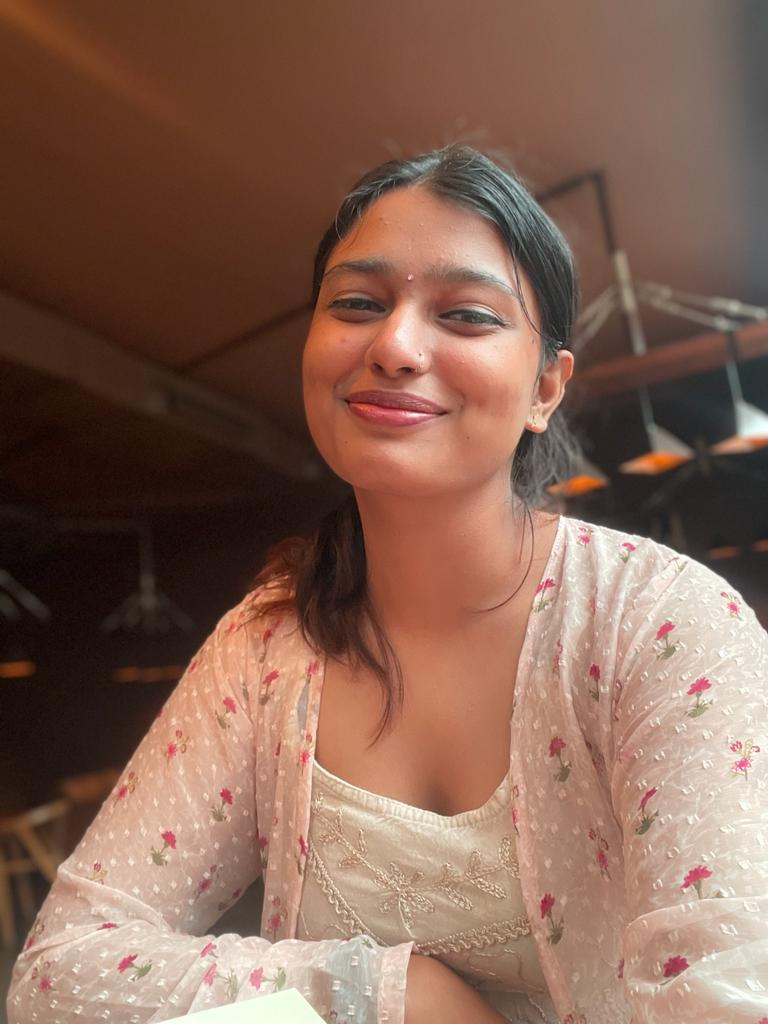
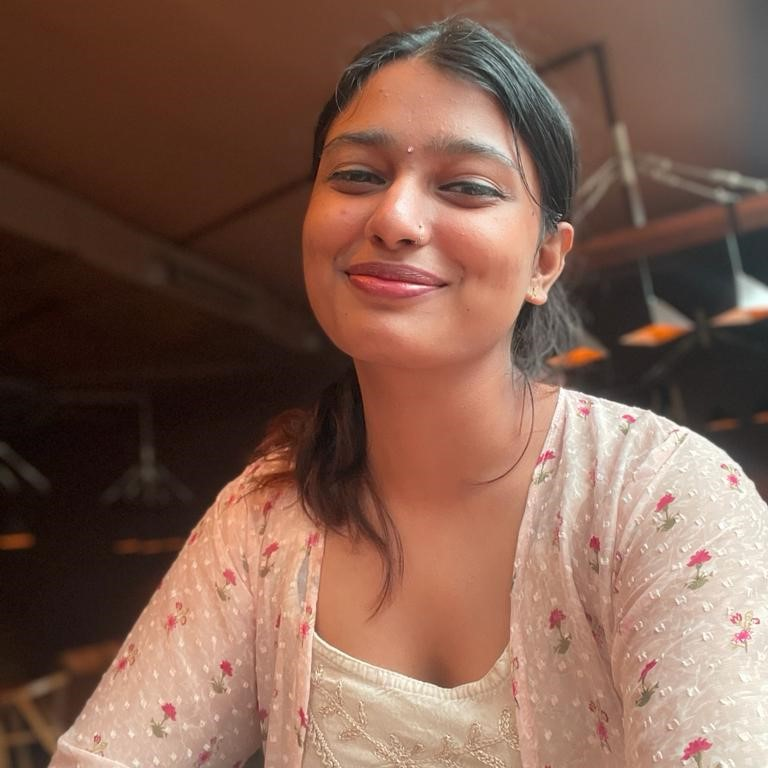
added ets blog 4 intro and cropped author image, theertha

diff --git a/content/post/session4-startupdeepdive.md b/content/post/session4-startupdeepdive.md
@@ -8,8 +8,14 @@ Tags: ["ets","startup","startupdeepdive","go to market strategy"]
 Categories: ["startup"]
 DisableComments: false
 ---
+
+**STARTUP DEEP DIVE** is an Entrepreneurship Training Series conducted by IEDC MEC which aims at providing individuals with the aptitude to identify business opportunities, self-esteem, knowledge, and skills to act on them. Entrepreneurs or the move towards self-employment is and will continue to become, an increasingly important element of economic growth and development.
+
 <br>
-The 4th session of the **Start-up Deep Dive** series on Product Market Fit and GTM strategy was organized by IEDC MEC on 12 December at SDPK Hall, Model Engineering College. 
+<img src="/images/session4-startupdeepdive/image1.jpg" width="550" height="auto">
+<br>
+
+The 4th session of the Start-up Deep Dive series on Product Market Fit and GTM strategy was organized by IEDC MEC on 12 December at SDPK Hall, Model Engineering College. 
 
 
 **Mr. Thompson Tom** was in charge of the session. We could not have asked for a better speaker for this particular topic. Thompson Tom is the Founder and CEO of TutAR- Next Reality Classroom, which enables teachers to use digital teaching aids using augmented reality. It is the very first On-Screen AR app in the world. Thompson, a talented entrepreneur, got his first client (a school) to sign his product just 20 days after his MVP release. Today, TutAR is widespread in various parts of India and well-developed markets such as the US, Europe, and the Middle East.
@@ -36,10 +42,6 @@ In conclusion, the session was a valuable resource for aspiring entrepreneurs. B
 <br>
 
 ### Gallery
-
-<br>
-<img src="/images/session4-startupdeepdive/image1.jpg" width="550" height="auto">
-<br>
 
 <br>
 <img src="/images/session4-startupdeepdive/image2.jpg" width="550" height="auto">
